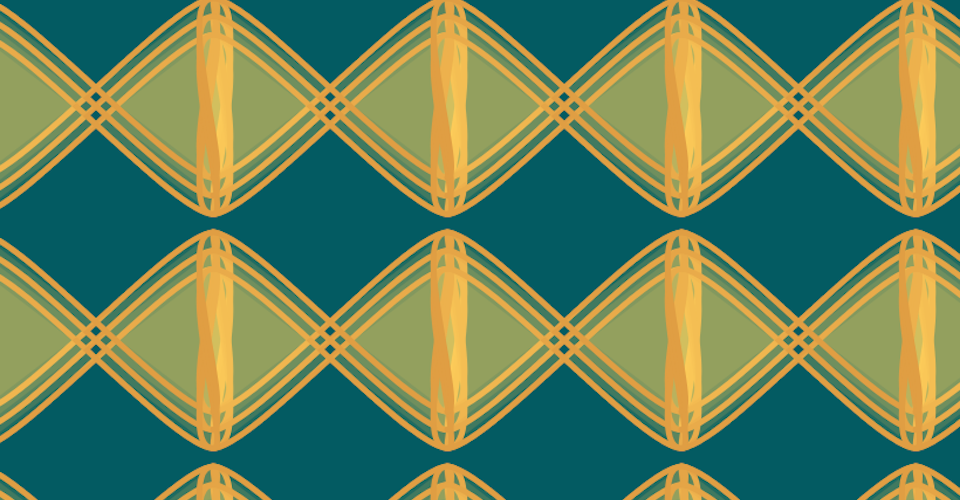
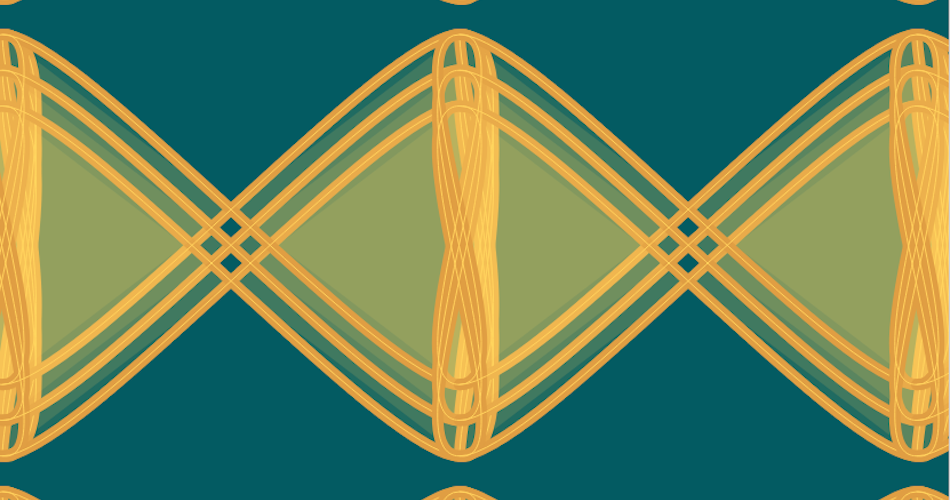
first zoom level

diff --git a/drawgrid.js b/drawgrid.js
@@ -75,12 +75,12 @@ function drawGrid(p5, x1, x2, y1, y2, z, zoom) {
   let max_y = snap_to_grid(y2 + max_shift + grid_size, grid_size);
 
   // debug version: draw one
-  let half_x = (x1 + x2) / 2;
-  let half_y = (y1 + y2) / 2;
-  min_x = snap_to_grid(half_x, grid_size);
-  max_x = snap_to_grid(half_x + grid_size, grid_size);
-  min_y = snap_to_grid(half_y, grid_size);
-  max_y = snap_to_grid(half_y + grid_size, grid_size);
+  // let half_x = (x1 + x2) / 2;
+  // let half_y = (y1 + y2) / 2;
+  // min_x = snap_to_grid(half_x, grid_size);
+  // max_x = snap_to_grid(half_x + grid_size, grid_size);
+  // min_y = snap_to_grid(half_y, grid_size);
+  // max_y = snap_to_grid(half_y + grid_size, grid_size);
 
   let c_p00 = p5.map(0, x1, x2, 0, 256);
   let c_plwidth = p5.map(lineWidth, x1, x2, 0, 256);
@@ -97,22 +97,6 @@ function drawGrid(p5, x1, x2, y1, y2, z, zoom) {
   let localBallRadius = localBallXEdge - localBallX;*/
 
 
-  /*let localpoint1x = p5.map(point1x, x1, x2, 0, 256);
-  let localpoint1y = p5.map(point1y, y1, y2, 0, 256);
-  let localpoint2x = p5.map(point2x, x1, x2, 0, 256);
-  let localpoint2y = p5.map(point2y, y1, y2, 0, 256);
-  let localpoint3x = p5.map(point3x, x1, x2, 0, 256);
-  let localpoint3y = p5.map(point3y, y1, y2, 0, 256);
-
-  p5.beginShape();
-  p5.curveVertex(localpoint1x, localpoint1y);
-  p5.curveVertex(localpoint1x, localpoint1y);
-  p5.curveVertex(localpoint2x, localpoint2y);
-  p5.curveVertex(localpoint3x, localpoint3y);
-  p5.curveVertex(localpoint3x, localpoint3y);
-  p5.endShape();*/
-
-
   for(let x=min_x; x<max_x; x+=grid_size) {
     for(let y=min_y; y<max_y; y+=grid_size) {
       /* first compute the points to be drawn */
@@ -124,33 +108,12 @@ function drawGrid(p5, x1, x2, y1, y2, z, zoom) {
       // let x_pos_left = p5.map(x+grid_size, x1, x2, 0, 256);
       // let y_pos_down = p5.map(y+grid_size, y1, y2, 0, 256);
 
-      /*
-      //X VALUES
-      let x383 = p5.map(Gx383, x1, x2, 0, 256);
-      let x255 = p5.map(Gx255, x1, x2, 0, 256);
-      let x128 = p5.map(Gx128, x1, x2, 0, 256);
-      let x0 = p5.map(Gx0, x1, x2, 0, 256);
-      let NEGx128 = p5.map(GNEGx128, x1, x2, 0, 256);
-
-
-
-      //Y values
-       
-      let y255 = p5.map(Gy255, x1, x2, 0, 256);
-      let y235 = p5.map(Gy235, x1, x2, 0, 256);
-      let y215 = p5.map(Gy215, x1, x2, 0, 256);
-      let y195 = p5.map(Gy195, x1, x2, 0, 256);
-      let y40 = p5.map(Gy40, x1, x2, 0, 256);
-      let y20 = p5.map(Gy20, x1, x2, 0, 256);
-      let y0 = p5.map(Gy0, x1, x2, 0, 256);  */
-
-      ///*
       //X VALUES
       let x383 = p5.map(x + (1*grid_size/1), x1, x2, 0, 256);
       let x255 = p5.map(x + grid_size, x1, x2, 0, 256);
-      let x128 = p5.map(x +(grid_size/1), x1, x2, 0, 256);
+      let x128 = p5.map(x +(grid_size/2), x1, x2, 0, 256);
       let x0 = p5.map(x, x1, x2, 0, 256);
-      let NEGx128 = p5.map(x +(-1*grid_size/2), x1, x2, 0, 256);
+      let NEGx128 = p5.map(x +(-1*grid_size/1), x1, x2, 0, 256);
 
 
 
@@ -167,17 +130,83 @@ function drawGrid(p5, x1, x2, y1, y2, z, zoom) {
 
       //p5.strokeWeight(strokeWidth * 0.1);
       /* now draw all elements from back to front */
-      // /* debug with lines
+      // // /* debug with lines
       // p5.fill(0);
       // p5.ellipse(x0, y0, 0.25*strokeWidth);
       // p5.fill(255);
       // p5.ellipse(x128, y195, 0.10*strokeWidth);
 
-      // p5.line(NEGx128, y215, x0, y0);
-      // p5.line(x0, y0, x128, y195);
-      // p5.line(x128, y195, x255, y0);
-      // p5.line(x255, y0, x383, y215);
-      // */
+      // p5.line(x0, y255, x0, y0);
+      // p5.line(x0, y0, x255, y255);
+      // p5.line(x255, y255, x255, y0);
+      //p5.line(x255, y0, x383, y215);
+      //*/
+
+
+  p5.strokeWeight(strokeWidth);  
+  p5.stroke (lines);
+  p5.fill(255, 211, 78, 32);
+
+      p5.beginShape();
+      p5.curveVertex(NEGx128, y215);
+      p5.curveVertex(x0, y0);
+      p5.curveVertex(x0, y195);
+      p5.curveVertex(x255, y0);
+      p5.curveVertex(x255, y195);
+      p5.curveVertex(x383, y195);
+      p5.endShape();
+
+      p5.beginShape();
+      p5.curveVertex(NEGx128, y235);
+      p5.curveVertex(x0, y20);
+      p5.curveVertex(x0, y215);
+      p5.curveVertex(x255, y20);
+      p5.curveVertex(x255, y215);
+      p5.curveVertex(x383, y215);
+      p5.endShape();
+
+      p5.beginShape();
+      p5.curveVertex(NEGx128, y255);
+      p5.curveVertex(x0, y40);
+      p5.curveVertex(x0, y235);
+      p5.curveVertex(x255, y40);
+      p5.curveVertex(x255, y235);
+      p5.curveVertex(x383, y235);
+      p5.endShape();
+
+      p5.beginShape();
+      p5.curveVertex(NEGx128, y0);
+      p5.curveVertex(x0, y235);
+      p5.curveVertex(x0, y40);
+      p5.curveVertex(x255, y235);
+      p5.curveVertex(x255, y40);
+      p5.curveVertex(x383, y40);
+      p5.endShape();
+
+      p5.beginShape();
+      p5.curveVertex(NEGx128, y0);
+      p5.curveVertex(x0, y215);
+      p5.curveVertex(x0, y20);
+      p5.curveVertex(x255, y215);
+      p5.curveVertex(x255, y20);
+      p5.curveVertex(x383, y20);
+      p5.endShape();
+
+      p5.beginShape();
+      p5.curveVertex(NEGx128, y0);
+      p5.curveVertex(x0, y195);
+      p5.curveVertex(x0, y0);
+      p5.curveVertex(x255, y195);
+      p5.curveVertex(x255, y0);
+      p5.curveVertex(x383, y0);
+      p5.endShape();
+
+      //inner
+
+      if(zoom > 0){
+      p5.stroke(fillColour);
+      p5.strokeWeight(strokeWidth/10);
+      p5.noFill();
 
       p5.beginShape();
       p5.curveVertex(NEGx128, y215);
@@ -233,6 +262,7 @@ function drawGrid(p5, x1, x2, y1, y2, z, zoom) {
       p5.curveVertex(x383, y0);
       p5.endShape();
     }
+    }
   }
 
   /*
@@ -278,7 +308,7 @@ function drawGrid(p5, x1, x2, y1, y2, z, zoom) {
  
   	//p5.line(0, 0, 255, 255);
 
-  // //debug - show border
+  //debug - show border
   // p5.noFill();
   // p5.strokeWeight(1);
   // p5.stroke(255, 0, 0)

diff --git a/README.md b/README.md
@@ -1,3 +1,3 @@
 ## PS4 MDDN 342 2018
 
-glitch version when the debug to draw one square is on
+here I added my first level of zoom detail - just a thinner line inside the original orange line that appears from zoom level 1 onwards. I think it emphasises some of the pretty ways the original lines cross over each other to create patterns, which is less obvious in the zoom level 0 because of the high stroke weight.
